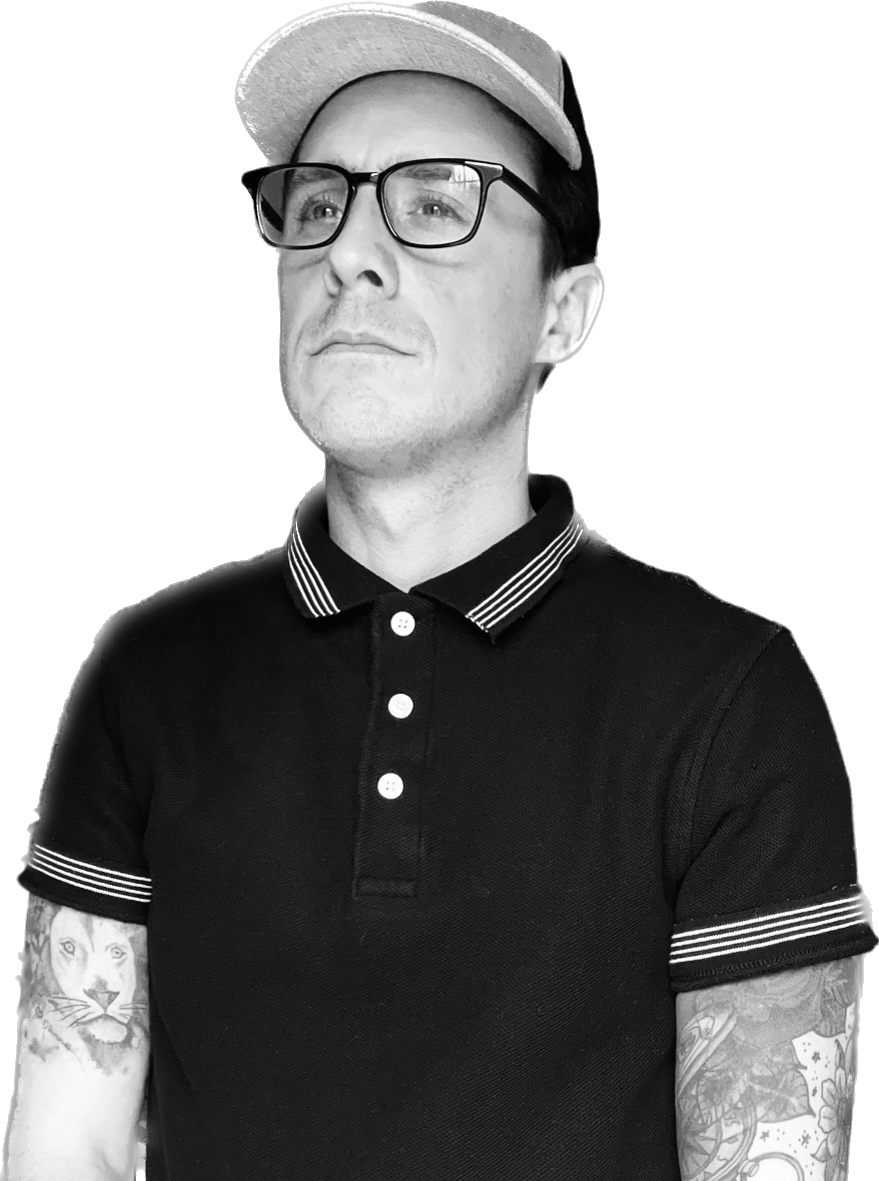
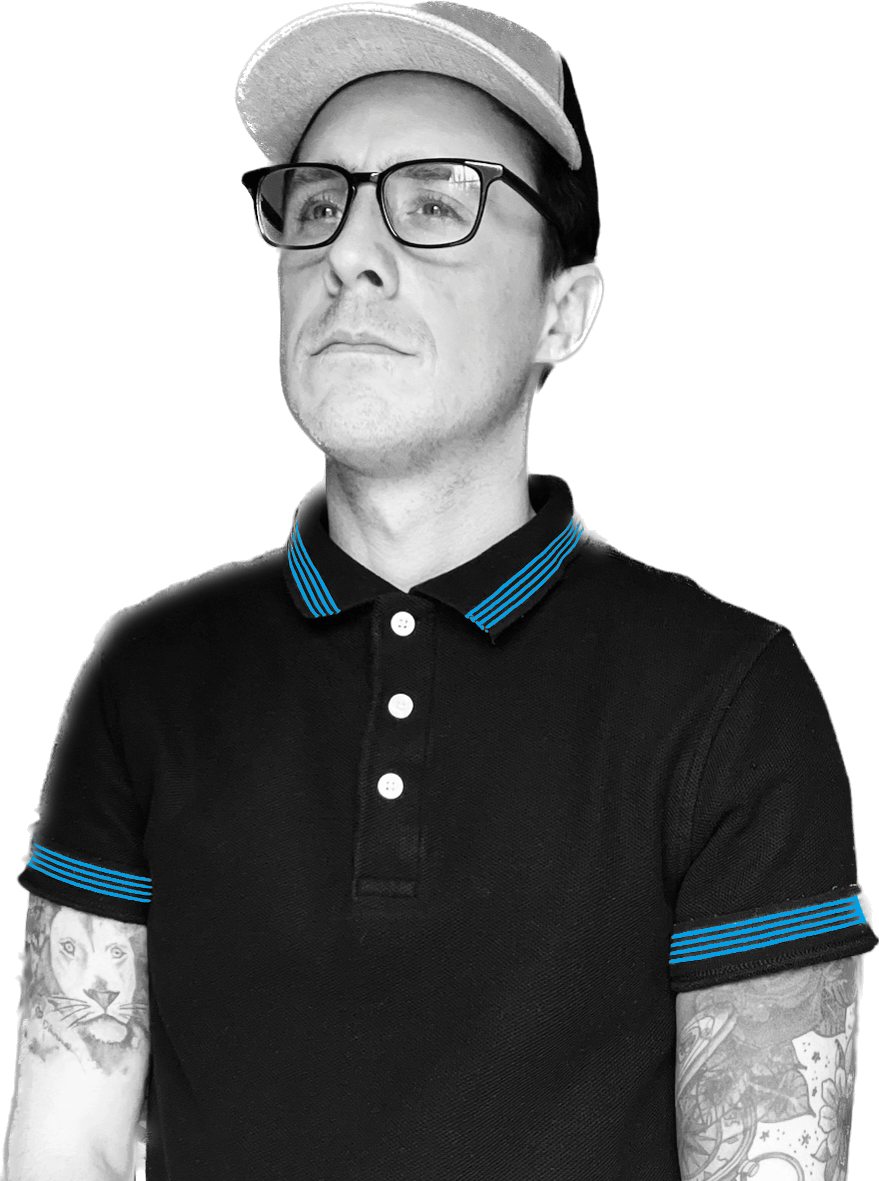
color change on shirt

diff --git a/src/assets/styles/style.css b/src/assets/styles/style.css
@@ -861,7 +861,7 @@ canvas {
 }
 
 .worksContainer {
-  margin-top: 20% !important;
+  margin-top: -90% !important;
   /* padding-left: 5%; */
   transform: scale(.8);
 }
@@ -1338,7 +1338,7 @@ canvas {
 
   .worksContainer {
     margin-top: -50% !important;
-    padding-left: 10%;
+    padding-left: -10%;
     transform: scale(1.2);
   }
   
@@ -1416,7 +1416,9 @@ canvas {
   }
 
   .worksContainer {
-    margin-top: -35% !important;
+    margin-top: -50% !important;
+    padding-top: 10%;
+    padding-right: -10%;
     transform: scale(1.4);
   }
   
